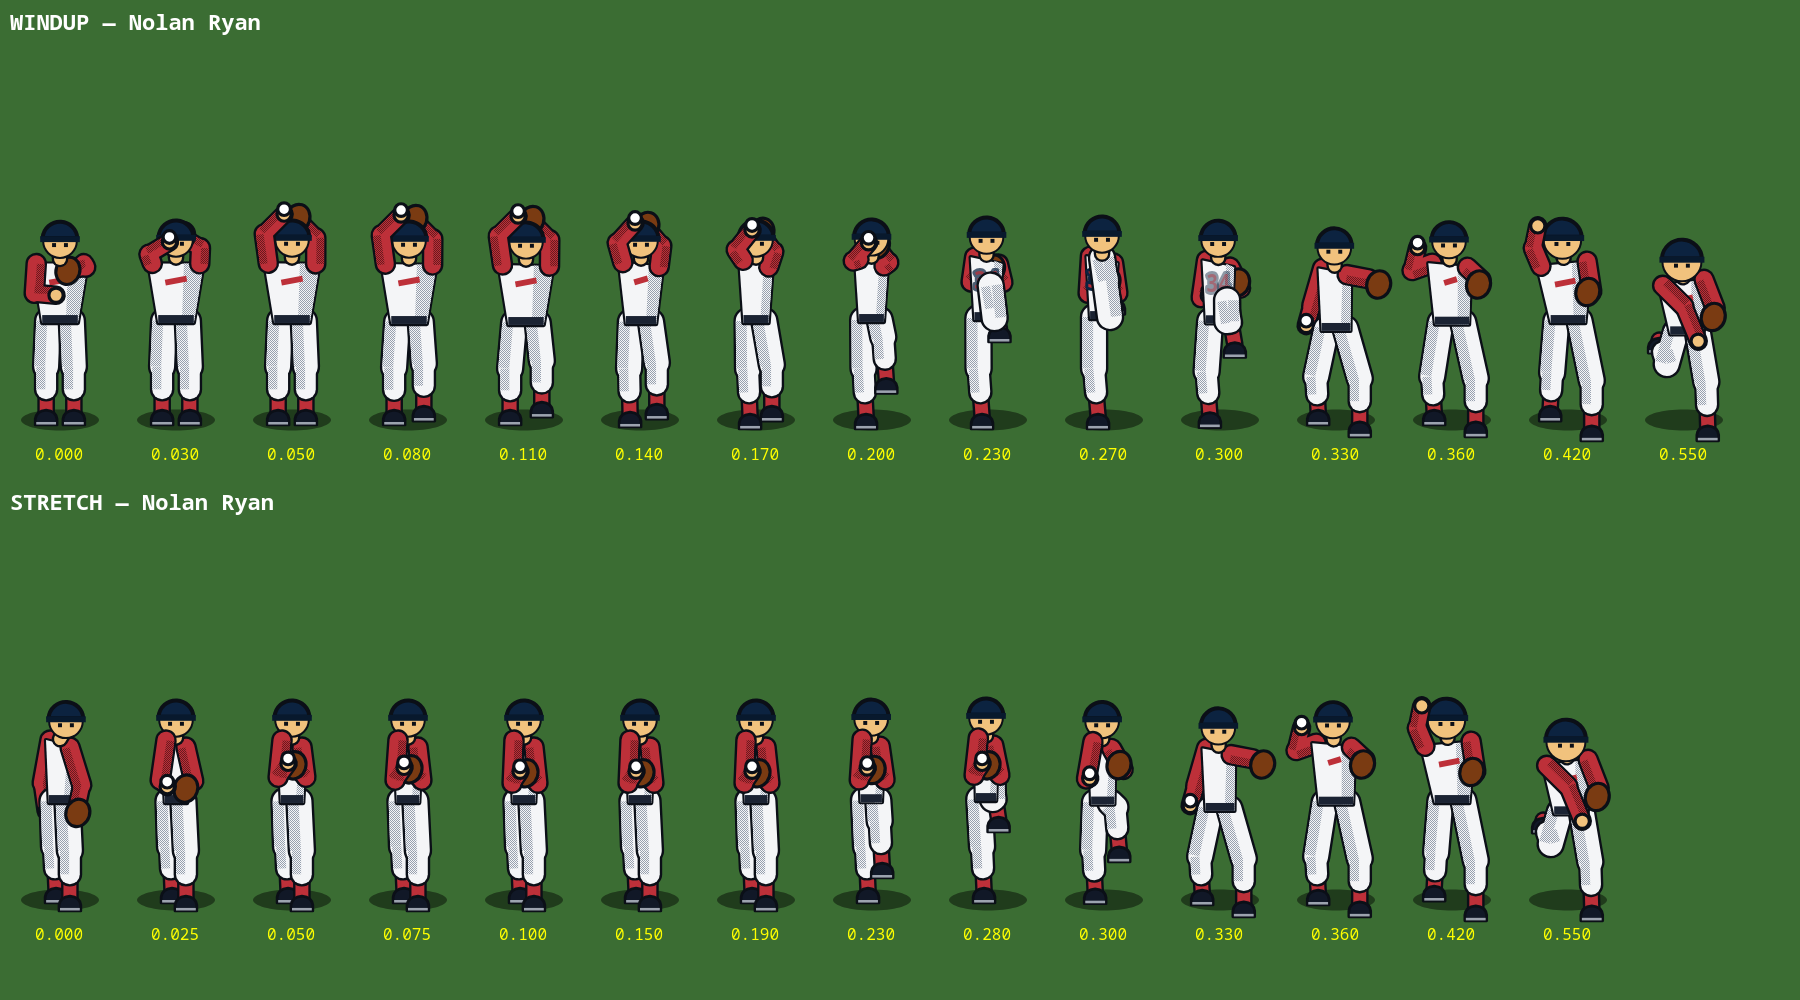
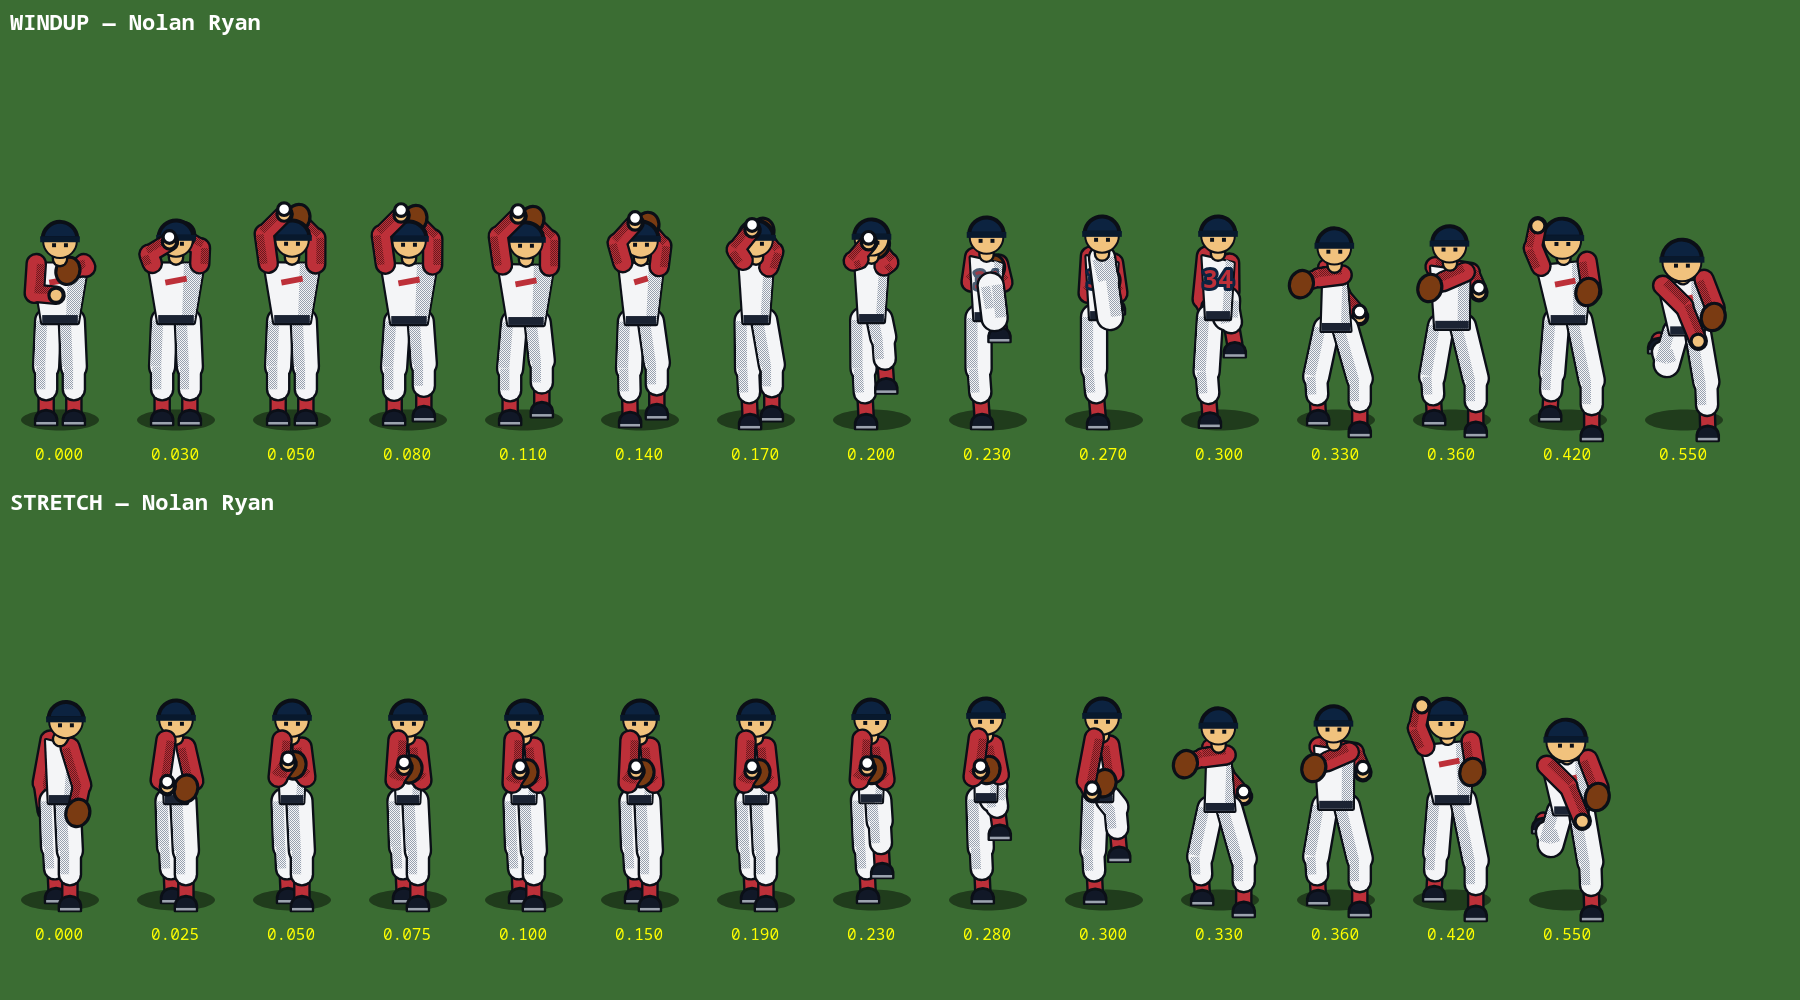
feat(duel): pitcher arm break, load and layback from the reference clips
- The hands break at the belt as the knee comes down (from 0.27).
- In the stride the shoulders stay closed: the glove arm leads toward
  third at shoulder height and the throwing hand swings down and back,
  peeking out past the far hip.
- New LOAD pose: the hips open and the throwing elbow rises behind the
  body; the hand comes up late behind the head into the cock.
- New LAYBACK pose just before release: shoulders nearly square, the
  elbow leads and the hand drops behind the head, so the cocked arm no
  longer sits still before the whip.
- Second Codex/agy review and Ryan/Darvish arm-break frames saved under
  research/; model runs logged in tracking/MODEL_COMPARISON.md.

Changed region(s): [[0.6533, 0.217, 0.84, 0.341], [0.5911, 0.682, 0.7778, 0.837], [0.5289, 0.744, 0.56, 0.899]]

diff --git a/src/ui/pitcherStyles.js b/src/ui/pitcherStyles.js
@@ -197,7 +197,7 @@ export function getPitcherStyle(pitcher) {
  * pelvis, neck, head, headR, shoulders, elbows and hands.
  * @param {Object} style from `getPitcherStyle`
  * Windup: SET, WIND, ROCKER, PIVOT, LIFT. Stretch: SIGN, GATHER, STRETCH, STRETCH_LIFT.
- * Both finish through STRIDE, COCK, RELEASE and FOLLOW.
+ * Both finish through BREAK (or STRETCH_BREAK), STRIDE, LOAD, COCK, LAYBACK, RELEASE and FOLLOW.
  * @returns {Object<string, Object>} keyframes by phase name
  */
 export function buildPitcherPoses(style) {
@@ -375,28 +375,68 @@ export function buildPitcherPoses(style) {
     gHa: [2, -18]
   };
 
-  // Stride: the front foot lands toward the plate while the shoulders stay closed. The hands
-  // break: the glove reaches toward the plate and the throwing hand swings down behind the hip.
+  // Stride: the front foot lands toward the plate while the shoulders stay closed (high kickers
+  // still nearly side-on). The glove arm leads, out toward third base at shoulder height, and
+  // the throwing hand has swung down and back toward second, peeking out past the far hip.
   const strideLegs = { tFoot: [-9, 0], gFoot: [12, 6], tKnee: [-10, -22], gKnee: [12, -21] };
   const strideFrame = {
     ...strideLegs,
     pelvis: [0, -46 + sink * 0.6],
     lean: lean * 0.3,
-    turn: 72,
+    turn: 78 + 14 * k,
     hipTurn: 55,
     neck: [0, -32],
     head: [headTurn, -41],
     headR: 8,
     ...shoulders(d * 0.5),
-    tEl: [-12, -12],
-    tHa: [-15, -2],
+    tEl: [3, -17],
+    tHa: [12, -6],
     tArmBack: 1,
-    gEl: [17, -25],
-    gHa: [21, -22]
+    gEl: [-8, -26],
+    gHa: [-18, -23]
+  };
+
+  // Hand break, as the lifted knee starts down: the hands part at the belt, the glove turning
+  // out and the throwing hand starting down.
+  const breakFrom = (lift) => {
+    const toward = (key) => [
+      lift[key][0] + (strideLegs[key][0] - lift[key][0]) * 0.35,
+      lift[key][1] + (strideLegs[key][1] - lift[key][1]) * 0.35
+    ];
+    return {
+      ...lift,
+      tFoot: toward('tFoot'),
+      gFoot: toward('gFoot'),
+      tKnee: toward('tKnee'),
+      gKnee: toward('gKnee'),
+      tEl: [-8, -9],
+      tHa: [-5, -3],
+      tArmBack: 0,
+      gEl: [6, -13],
+      gHa: [0, -8]
+    };
+  };
+
+  // Arm load as the front foot lands: the hips open first, and behind the body the throwing
+  // elbow rises to shoulder height with the forearm still hanging. The glove arm still leads.
+  // From here the hand sweeps up behind the head into the cocked position.
+  const sl = shoulders(d * 0.75);
+  const loadFrame = {
+    ...strideFrame,
+    pelvis: [0, -47 + sink * 0.8],
+    lean: lean * 0.45,
+    turn: 62,
+    hipTurn: 30,
+    ...sl,
+    tEl: [11, -27],
+    tHa: [15, -16],
+    gEl: [-4, -23],
+    gHa: [-12, -20]
   };
 
   // Cocked arm: hips have fired but the shoulders are still closed. The elbow is up at
-  // shoulder height and the hand is laid back above and behind the head.
+  // shoulder height and the hand is laid back above and behind the head. The glove pulls in
+  // in front of the chest.
   const sh = shoulders(d);
   const cockFrame = {
     ...strideLegs,
@@ -409,10 +449,23 @@ export function buildPitcherPoses(style) {
     headR: 8,
     ...sh,
     tEl: [sh.tSh[0] - 9, sh.tSh[1] - 2],
-    tHa: [sh.tSh[0] - 4, sh.tSh[1] - 19],
+    tHa: [sh.tSh[0] - 4, sh.tSh[1] - 16],
     tArmBack: 1,
-    gEl: [15, -20],
-    gHa: [11, -18]
+    gEl: [9, -21],
+    gHa: [3, -19]
+  };
+
+  // Layback, just before release: the shoulders have nearly squared, the elbow leads at
+  // shoulder height and the forearm lies back, so the hand drops behind the head.
+  const laybackFrame = {
+    ...cockFrame,
+    lean: lean * 0.8,
+    turn: 15,
+    hipTurn: -5,
+    tEl: [sh.tSh[0] - 9, sh.tSh[1] - 1],
+    tHa: [sh.tSh[0] - 5, sh.tSh[1] - 11],
+    gEl: [11, -17],
+    gHa: [6, -16]
   };
 
   // Release: shoulders whip square and past, throwing shoulder forward, hand out front.
@@ -464,8 +517,12 @@ export function buildPitcherPoses(style) {
     GATHER: frame(gatherFrame),
     STRETCH: frame(stretchFrame),
     STRETCH_LIFT: frame(stretchLiftFrame),
+    BREAK: frame(breakFrom(liftFrame)),
+    STRETCH_BREAK: frame(breakFrom(stretchLiftFrame)),
     STRIDE: frame(strideFrame),
+    LOAD: frame(loadFrame),
     COCK: frame(cockFrame),
+    LAYBACK: frame(laybackFrame),
     RELEASE: frame(releaseFrame),
     FOLLOW: frame(followFrame)
   };

diff --git a/src/ui/fieldRenderer1987.js b/src/ui/fieldRenderer1987.js
@@ -1802,9 +1802,13 @@ export class FieldRenderer1987 {
    * - 0.10–0.19 the full stop
    * - 0.19–0.28 a quicker, lower leg lift that stays in front
    * Both then finish the same way:
-   * - 0.28–0.33 stride toward the plate; hands break, throwing hand swings down behind the hip
-   * - 0.33–0.385 hips fire and the arm cocks, laid back behind the head
-   * - 0.385–0.42 the shoulders whip square and the arm snaps through to the release
+   * - 0.27–0.30 the hands break at the belt as the knee starts down
+   * - 0.30–0.33 stride toward the plate, shoulders closed; the glove arm leads toward third and
+   *   the throwing hand swings down and back past the hip
+   * - 0.33–0.355 the hips open and the throwing elbow rises to shoulder height
+   * - 0.355–0.385 the hand comes up behind the head into the cocked position, glove pulling in
+   * - 0.385–0.40 layback: the shoulders square, the elbow leads and the hand drops behind the head
+   * - 0.40–0.42 the arm snaps through to the release
    * - 0.42 release: the ball leaves the hand here, at the hand from `getReleasePointOffset`
    * - 0.42–0.70 follow-through across to the glove-side knee, the back leg lifts
    */
@@ -1819,6 +1823,7 @@ export class FieldRenderer1987 {
 
     const setPose = isStretch ? P.SIGN : P.SET;
     const liftPose = isStretch ? P.STRETCH_LIFT : P.LIFT;
+    const breakPose = isStretch ? P.STRETCH_BREAK : P.BREAK;
     const leadIn = (prog) => {
       if (isStretch) {
         if (prog < 0.05) return blendPose(P.SIGN, P.GATHER, smooth(Math.pow(prog / 0.05, style.tempo)));
@@ -1833,14 +1838,18 @@ export class FieldRenderer1987 {
       return P.LIFT;
     };
     const poseAt = (prog) => {
-      if (prog < 0.28) return leadIn(prog);
-      if (prog < 0.33) return blendPose(liftPose, P.STRIDE, smooth((prog - 0.28) / 0.05));
+      if (prog < 0.27) return leadIn(prog);
+      if (prog < 0.3) return blendPose(leadIn(prog), breakPose, smooth((prog - 0.27) / 0.03));
+      if (prog < 0.33) return blendPose(breakPose, P.STRIDE, smooth((prog - 0.3) / 0.03));
+      if (prog < 0.355) return blendPose(P.STRIDE, P.LOAD, smooth((prog - 0.33) / 0.025));
+      // The elbow leads, so the hand comes up late behind the head
       if (prog < 0.385) {
-        const t = (prog - 0.33) / 0.055;
-        return blendPose(P.STRIDE, P.COCK, t * (2 - t));
+        const t = (prog - 0.355) / 0.03;
+        return blendPose(P.LOAD, P.COCK, t * t);
       }
+      if (prog < 0.4) return blendPose(P.COCK, P.LAYBACK, smooth((prog - 0.385) / 0.015));
       // The whip runs at full speed through the release instead of easing into it
-      if (prog < 0.42) return blendPose(P.COCK, P.RELEASE, (prog - 0.385) / 0.035);
+      if (prog < 0.42) return blendPose(P.LAYBACK, P.RELEASE, (prog - 0.4) / 0.02);
       const t = Math.min(1, (prog - 0.42) / 0.28);
       return blendPose(P.RELEASE, P.FOLLOW, 1 - (1 - t) * (1 - t));
     };

diff --git a/research/pitching_agent_reports/review2_agy_gemini-3.8-flash-medium.md b/research/pitching_agent_reports/review2_agy_gemini-3.8-flash-medium.md
@@ -1,0 +1,32 @@
+**Files opened:** [`game_ryan_break.png`](file:///tmp/claude-1000/-var-home-natex-Projects-EWBB/a810e5de-9d71-4643-8c42-9846fda36d53/scratchpad/review2/game_ryan_break.png), [`ref_ryan_break_home_view.png`](file:///tmp/claude-1000/-var-home-natex-Projects-EWBB/a810e5de-9d71-4643-8c42-9846fda36d53/scratchpad/review2/ref_ryan_break_home_view.png), [`ref_darvish_break_home_view.png`](file:///tmp/claude-1000/-var-home-natex-Projects-EWBB/a810e5de-9d71-4643-8c42-9846fda36d53/scratchpad/review2/ref_darvish_break_home_view.png), [`ref_darvish.webm`](file:///tmp/claude-1000/-var-home-natex-Projects-EWBB/a810e5de-9d71-4643-8c42-9846fda36d53/scratchpad/review2/ref_darvish.webm).
+
+---
+
+### Ranked Arm & Glove Mismatches
+
+1. **Frozen Cocked Arm & Missing Layback (0.378–0.414)**
+   - **Game:** The throwing arm freezes completely motionless in a vertical "L" for four consecutive frames (~125 ms).
+   - **Refs:** Pitchers exhibit continuous dynamic external rotation; the elbow leads forward while the forearm lays back horizontally before whipping forward into release (Ryan 0.750–0.833, Darvish 1.000–1.125).
+   - **Fix:** Add forearm layback across 0.390–0.402 (tilt forearm and ball backward/downward behind the head) before driving forward into release at 0.414–0.426.
+
+2. **Teleporting Throwing Arm / Missing Scap Load (0.354–0.378)**
+   - **Game:** The throwing hand jumps from trailing the right hip (0.354) directly into the high cocked position on the viewer's left (0.378); at 0.366 the arm vanishes.
+   - **Refs:** The throwing elbow rises to shoulder height behind the torso while the forearm/hand lags below, sweeping up behind the head into cocking (Ryan 0.667–0.750, Darvish 0.875).
+   - **Fix:** At 0.366, draw the throwing elbow elevated to shoulder height on the viewer's right with the ball lagging below/behind the torso before reaching the slot.
+
+3. **Stiff Horizontal Glove Arm (0.330–0.354)**
+   - **Game:** The glove arm forms a rigid, perfectly straight horizontal bar pointing laterally to the viewer's left across three static frames.
+   - **Refs:** The glove arm leads toward the catcher/home plate with slight elbow flexion rather than locking stiffly sideways (Darvish 0.500–0.750, Ryan 0.500–0.583).
+   - **Fix:** Drop the glove elbow slightly, point the mitt toward the viewer/plate, and initiate the tuck into the chest earlier by 0.354.
+
+4. **Delayed Hand Break in Windup (0.282–0.306)**
+   - **Game:** Hands remain clasped high at chest level while the lead leg drops, breaking late at 0.318.
+   - **Refs:** Hands break downward at belt level as the stride leg descends (Darvish 0.125–0.250).
+   - **Fix:** Lower clasped hands to the belt by 0.282 and begin separation by 0.294 in the windup sequence.
+
+---
+
+### What Looks Right
+- **Ball path at stride onset:** The ball peeking out past the rear hip on the viewer's right (0.330–0.354) accurately captures the closed shoulder position.
+- **Glove tuck:** Tight tuck against the chest/ribs during delivery and follow-through (0.378–0.438).
+- **Lower body mechanics:** Stride length and footplant timing align well with the references.

diff --git a/research/pitching_agent_reports/review2_codex_gpt-6-luna.md b/research/pitching_agent_reports/review2_codex_gpt-6-luna.md
@@ -1,0 +1,13 @@
+## Mismatches ranked by impact
+
+1. **0.378–0.438 — throwing hand cocks on the wrong side and too early.** The game raises the hand above the head on the viewer’s left by 0.378, then holds it there through 0.414; by 0.426–0.438 it has dropped beside the head. In the Ryan reference, the hand stays back and low through the stride, then comes up as the pitcher turns toward release; Darvish likewise keeps it behind him until late. **Fix:** keep the hand low and behind the far hip through roughly 0.34, raise the elbow behind the body around 0.34–0.36, and bring the hand up beside the head closer to release.
+
+2. **0.330–0.366 — glove arm leads the wrong way and stays folded.** The game keeps the glove near the chest, on the viewer’s left, with the forearm tucked across the torso. Both references show the glove arm extending toward the viewer’s left during the stride, with the elbow opening; it remains extended as the body turns. **Fix:** reach the glove out to shoulder height through the stride, then draw it toward the chest as the throwing arm comes up.
+
+3. **0.318–0.354 — throwing hand is visible in front instead of swinging behind.** The game shows a small white hand/ball near the viewer’s right hip while the forearm is mostly hidden; the references show the throwing arm moving down and back, with the hand peeking beyond the far hip. **Fix:** show more of the bent arm trailing behind the torso, keeping the hand low until the elbow starts to rise.
+
+## What looks right
+
+The hands begin to separate around 0.294–0.306, and the stride widens from 0.318 onward. The shoulder line also stays fairly closed early in the sequence, which fits the references.
+
+**Files opened:** `game_ryan_break.png`, `ref_ryan_break_home_view.png`, and `ref_darvish_break_home_view.png`. I checked `ref_darvish.webm` metadata, but couldn’t extract a frame because the workspace is read-only, so I did not view the video.

diff --git a/tracking/MODEL_COMPARISON.md b/tracking/MODEL_COMPARISON.md
@@ -11,4 +11,7 @@ One row per worker run. Wall time runs from launch to exit. Quality is the coord
 | 2026-10-22 | Review new animation frames against real reference frames | codex (`-i` images) | `gpt-6-luna` (medium effort) | 45 s | 2.6 KB | Opened all 5 images, no video (it cannot). Caught the main flaw: the stretch still read square. Two errors: it said the throwing arm sat on the wrong side, and that the hands rose too early (the Ryan reference shows them rising first). |
 | 2026-10-22 | Same review, plus the two source videos | agy | `gemini-3.8-flash-medium` | 1 min 7 s | 3.4 KB | Says it opened the images and both videos. Also caught the square stretch, plus the faint pivot-foot turn and the stiff arm break at 0.33–0.36. Its observations matched the frames more closely than Codex's. |
 
+| 2026-10-22 | Review the arm break (0.27–0.44) against Ryan and Darvish frames | codex (`-i` images) | `gpt-6-luna` (medium effort) | 29 s | 2.0 KB | Opened 3 images; could not view the video. Useful: the cocked arm sits still too long. Wrong: it said the glove stays folded at the chest, but the frames show it extended. |
+| 2026-10-22 | Same review, plus the Darvish clip | agy | `gemini-3.8-flash-medium` | 1 min 30 s | 3.1 KB | Says it opened all four files. More precise: frozen cocked arm with no layback, the hand vanishing behind the head at 0.366, a stiff glove arm, a late hand break. All four led to changes; the hand still disappears for one frame (about 30 ms) as it passes behind the head. It wrote its output to the project root because of a shell mistake on my side; the run itself was fine. |
+
 The research runs used `research/pitching_agent_reports/prompt.md`. The review runs got real frames and video. The research runs had only web search.

diff --git a/research/pitching_agent_reports/review2_prompt.md b/research/pitching_agent_reports/review2_prompt.md
@@ -1,0 +1,11 @@
+You are reviewing one part of a pitcher animation in a retro baseball game (remake of Earl Weaver Baseball, 1987): the hand break, stride and arm cocking. The camera is behind home plate, so the pitcher faces the viewer. A right-handed pitcher's throwing arm is on the viewer's LEFT when he is square to the plate; when he is closed (back toward the plate) his throwing side moves to the viewer's right.
+
+Files in this directory (open every image yourself):
+- game_ryan_break.png: game frames from progress 0.270 to 0.438 (release is 0.42; 0.012 progress is about 31 ms). Top row windup, bottom row stretch; they share this part of the motion.
+- ref_ryan_break_home_view.png: Nolan Ryan from behind home plate, same phase (slow-motion timestamps).
+- ref_darvish_break_home_view.png: Yu Darvish from behind home plate, same phase.
+- ref_darvish.webm: the Darvish source clip, if you can view video.
+
+Intended motion: hands part at the belt as the knee comes down (0.28-0.30); stride with shoulders still closed, the glove arm leading out toward the viewer's left at shoulder height and the throwing hand swung down and back, peeking out past the far hip on the viewer's right (0.30-0.33); hips open and the throwing elbow rises behind the body (0.33-0.355); the hand sweeps up behind the head into the cocked position on the viewer's left as the glove pulls in (0.355-0.385); whip to release.
+
+Task: compare the game frames with the references. List the mismatches in arm and glove position that most hurt realism at this sprite size, ranked, each with the progress value(s), what the game shows, what the references show, and a concrete fix. Say what looks right. Do not edit files. Under 350 words. State which files you actually opened.

diff --git a/NOTES-pitcher.md b/NOTES-pitcher.md
@@ -49,9 +49,13 @@ The lead-in follows the windup vs. stretch research in `research/pitching_windup
 | 0.05–0.11 | `ROCKER`: the glove-side foot steps back | `STRETCH`: hands settle at the belt |
 | 0.11–0.17 | `PIVOT`: pivot foot into the slot, body turns side-on | full stop (until 0.19) |
 | 0.17–0.26 | `LIFT`: knee to the chest; high kickers coil until the plate sees the back number | `STRETCH_LIFT` (0.19–0.28): knee to belt height, staying in front |
-| 0.26–0.28 | balance point | |
-| 0.28–0.33 | Stride. The glove-side foot lands toward the plate. | same |
-| 0.33–0.42 | Arm cock, then the whip into release. | same |
+| 0.26–0.27 | balance point | |
+| 0.27–0.30 | `BREAK`: hands part at the belt as the knee starts down | `STRETCH_BREAK`: same, from the lower lift |
+| 0.30–0.33 | `STRIDE`: shoulders closed; the glove arm leads toward third, the throwing hand swings down and back past the far hip | same |
+| 0.33–0.355 | `LOAD`: hips open; the throwing elbow rises behind the body | same |
+| 0.355–0.385 | `COCK`: the hand comes up behind the head; the glove pulls in | same |
+| 0.385–0.40 | `LAYBACK`: shoulders nearly square, elbow leads, hand drops behind the head | same |
+| 0.40–0.42 | The whip into release, at full speed. | same |
 | 0.42 | Release. | same |
 | 0.42–0.70 | Follow-through. The back foot lifts on high-kick deliveries. | same |
 
